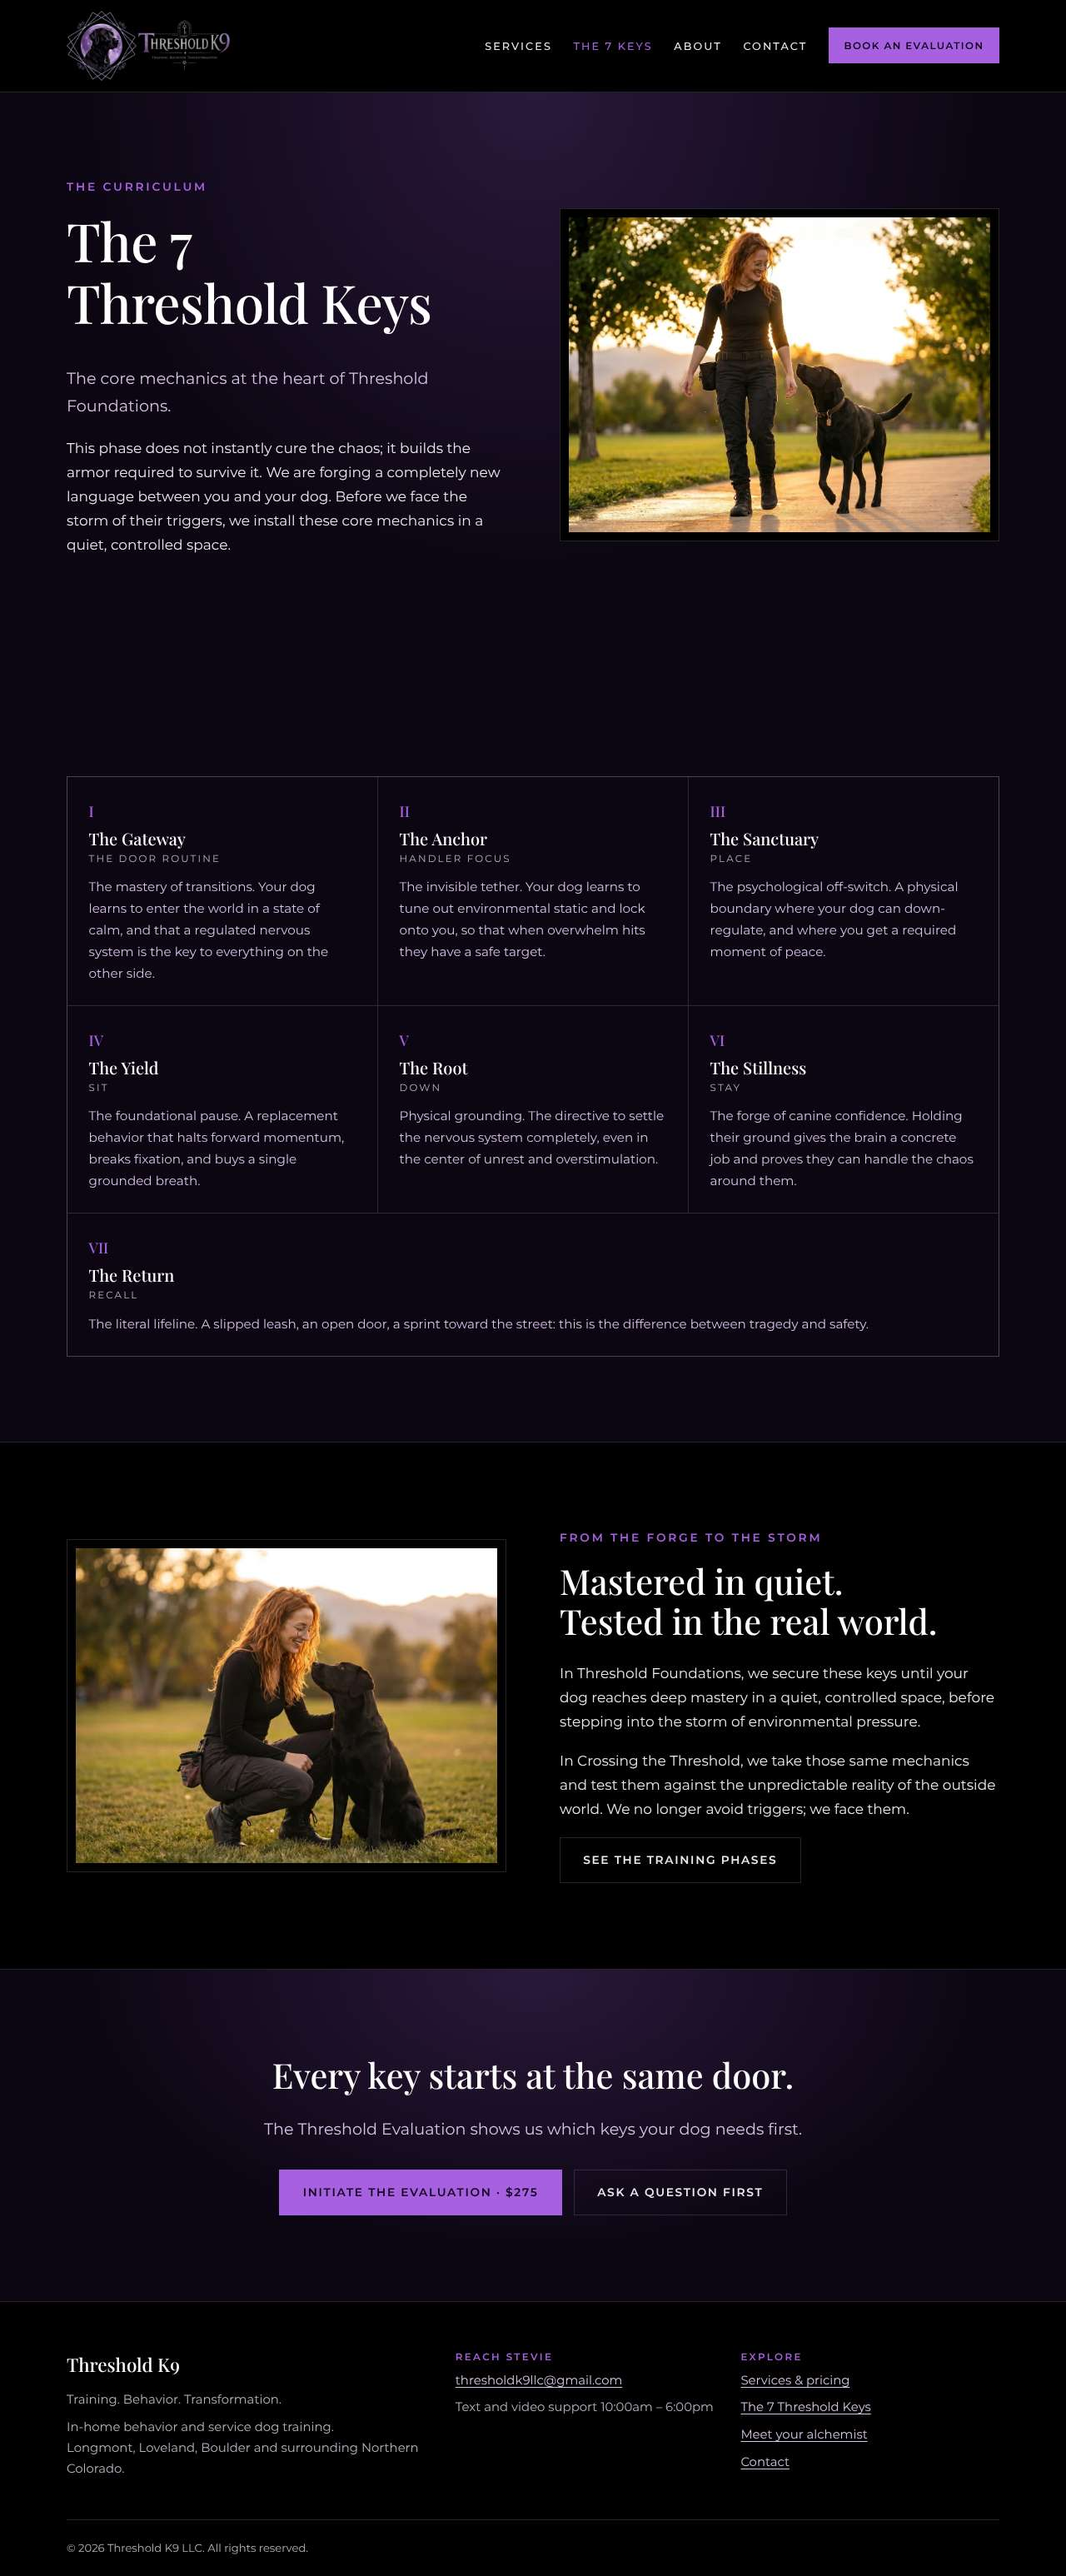
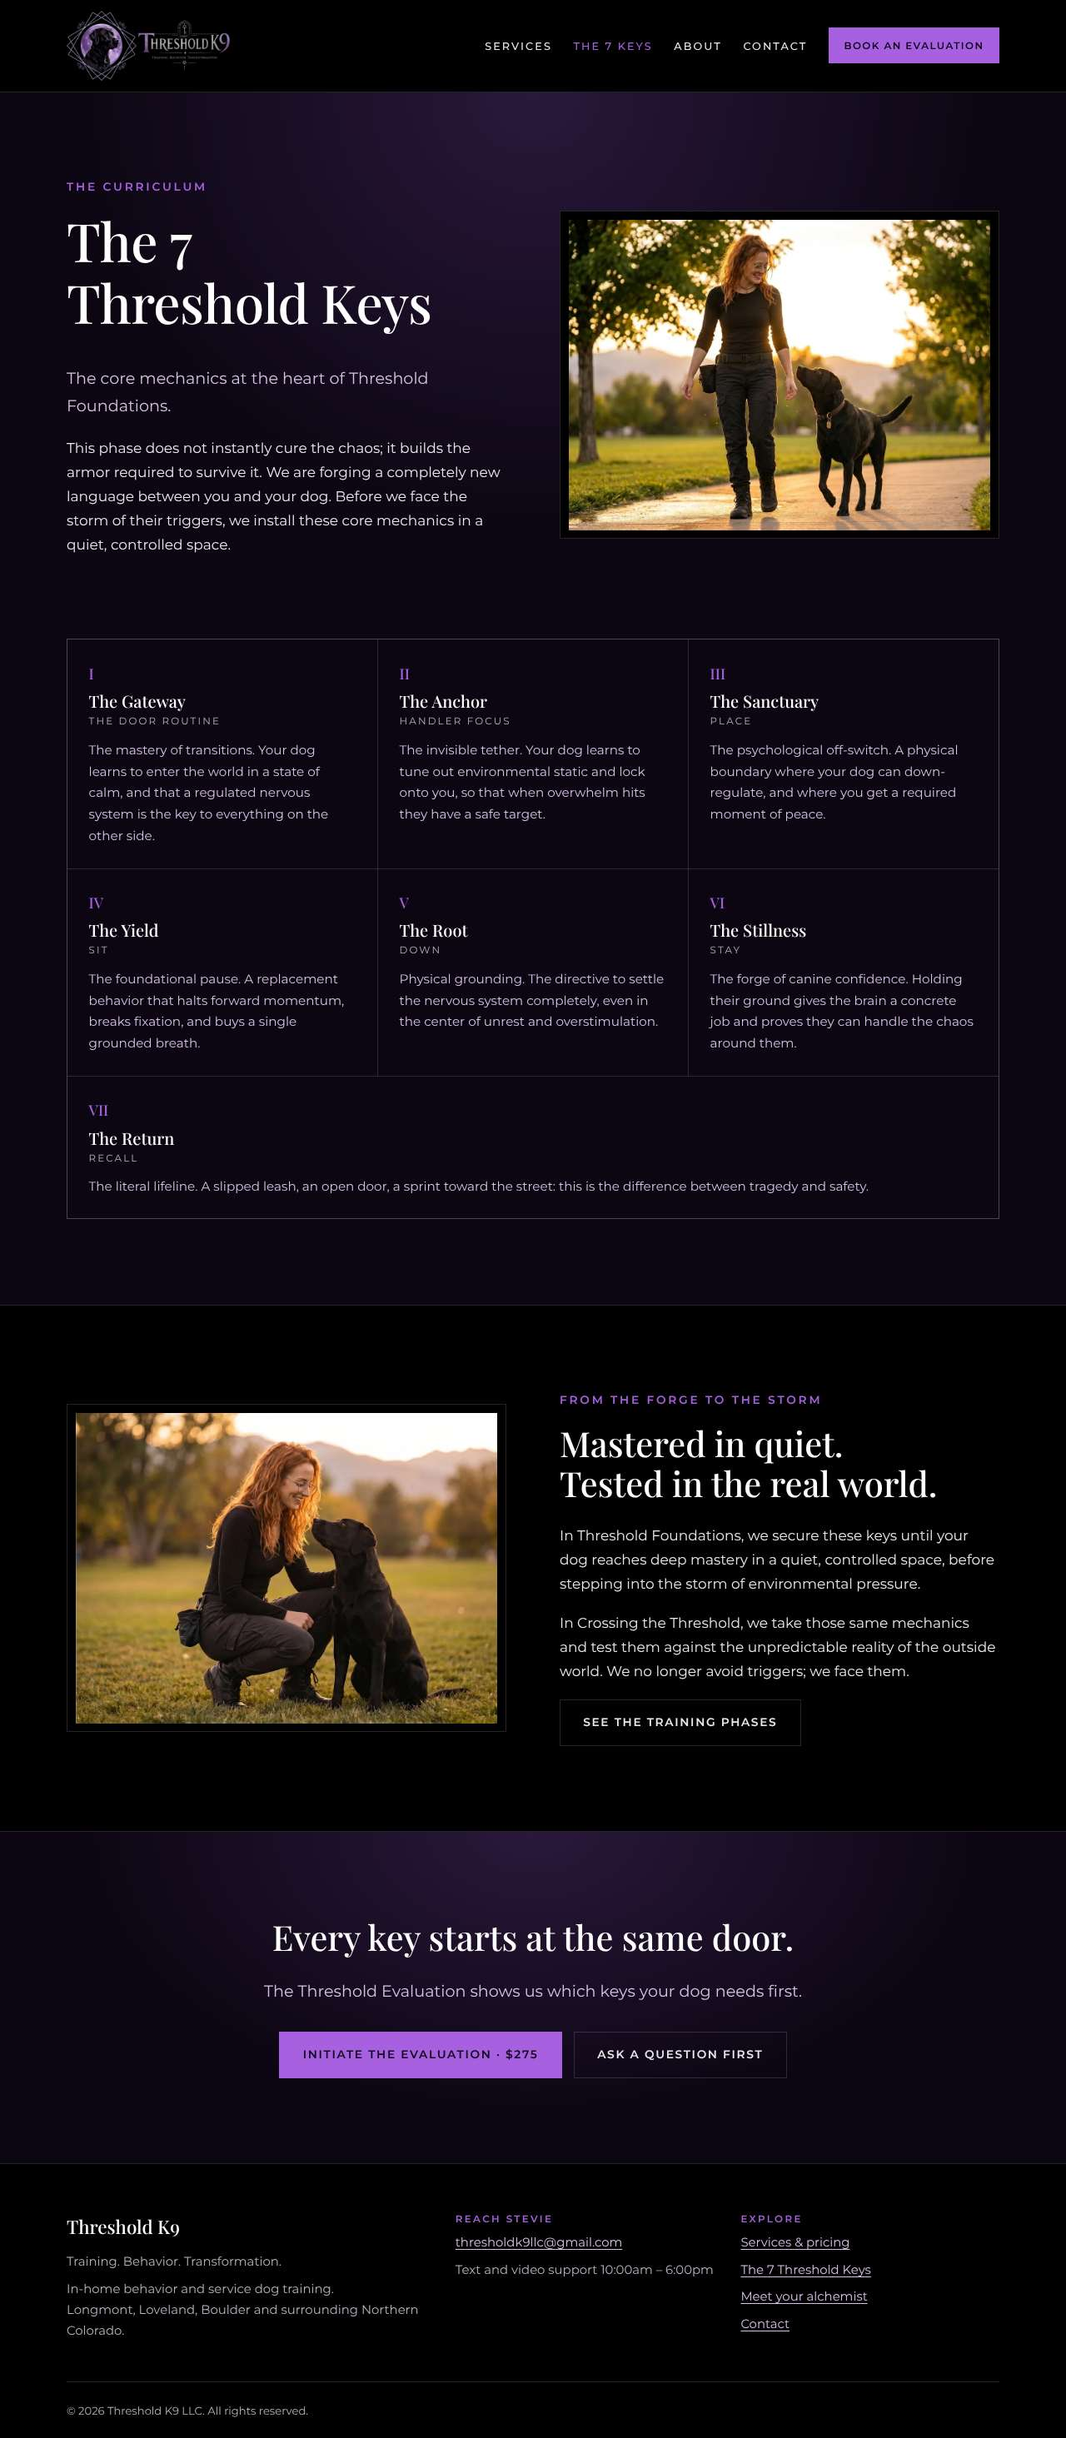
About: add three new photos; 7 Keys: full-size photos, tighter top gap
Claude-Session: https://claude.ai/code/session_01FX71VwxAMGQj4Z4z8A3LuL

diff --git a/src/pages/about.html b/src/pages/about.html
@@ -1,5 +1,5 @@
 <!-- {"path":"/about/","title":"Meet Stevie Rossi | Threshold K9","description":"Stevie Rossi is a trainer and behavior specialist in Longmont, Colorado, working with reactive and bite-history dogs and developing owner-trained service dogs."} -->
-<section class="glow">
+<section class="glow" style="padding-bottom:2.5rem">
   <div class="wrap split">
     <div>
       <p class="eyebrow">Meet your alchemist</p>
@@ -14,21 +14,23 @@
   </div>
 </section>
 
-<section>
-  <div class="wrap narrow">
+<section style="padding-top:1.5rem">
+  <div class="wrap split top">
+    <div class="frame">
+      <img src="/assets/img/about-moon-trail.webp" alt="Stevie sitting on a forest trail at dusk with her arm around her black Lab, a crescent moon overhead" width="1600" height="891" loading="lazy">
+    </div>
+    <div>
     <h2>A lifetime among dogs</h2>
     <p>My relationship with dogs started early. I grew up in a home where there were rarely fewer than 8 to 12 dogs at a time, with puppies moving through every stage of development. I learned by watching, handling, working, and living alongside dogs long before I ever called it "training."</p>
     <p>As I grew older, that love became a fascination with how dogs think, learn, communicate, and survive stress. I studied training techniques, built my own handling systems, and began working with the dogs most people were afraid to touch: reactive dogs with bite histories, dogs who could not exist calmly around other dogs, and extreme resource guarding cases that needed more than basic obedience.</p>
     <p>When I began working in shelter behavior, that passion exploded.</p>
     <p>I saw the gap clearly: the dogs who need skilled training the most are often the ones denied it because of liability, fear, or lack of experience. Threshold K9 exists to be their lifeline.</p>
+    </div>
   </div>
 </section>
 
 <section class="band">
   <div class="wrap split">
-    <div class="frame">
-      <img src="/assets/img/sunset.webp" alt="Stevie standing with Nyx in her service harness at sunset" width="1200" height="900" loading="lazy">
-    </div>
     <div>
       <p class="eyebrow">Why service dogs</p>
       <h2>A bridge back into the world</h2>
@@ -36,16 +38,24 @@
       <p>When I began training my first service dog, everything in my life changed. I understood, in my body, what it means for a dog to become more than a companion. A service dog can mean independence. Safety. Grounding. Access.</p>
       <p>That is why I created the Ascension Track: to help shape carefully selected dogs into stable, skilled, task-trained partners who can support their handlers with clarity, confidence, and real-world reliability.</p>
     </div>
+    <div class="frame">
+      <img src="/assets/img/about-service-kneel.webp" alt="Stevie crouching in a park at sunset, smiling beside Nyx in her service harness and In Training vest" width="1400" height="1030" loading="lazy">
+    </div>
   </div>
 </section>
 
 <section>
   <div class="wrap">
-    <div class="narrow">
-      <p class="eyebrow">The approach</p>
-      <h2>Regulation first</h2>
-      <p>My work is rooted in hard behavioral science and forged in the real-world trenches of reactivity, aggression, bite histories, impulse control, resource guarding, service dog foundations, public access skills, and nervous system overload.</p>
-      <p>Before we ask a dog to "behave," we teach them how to feel safe, think clearly, and move through the world with confidence.</p>
+    <div class="split">
+      <div class="frame">
+        <img src="/assets/img/about-service-stand.webp" alt="Stevie standing in a sunny park beside Nyx in her service harness and In Training vest" width="1400" height="1030" loading="lazy">
+      </div>
+      <div>
+        <p class="eyebrow">The approach</p>
+        <h2>Regulation first</h2>
+        <p>My work is rooted in hard behavioral science and forged in the real-world trenches of reactivity, aggression, bite histories, impulse control, resource guarding, service dog foundations, public access skills, and nervous system overload.</p>
+        <p>Before we ask a dog to "behave," we teach them how to feel safe, think clearly, and move through the world with confidence.</p>
+      </div>
     </div>
     <div class="pillars" style="grid-template-columns: repeat(auto-fit, minmax(260px, 1fr))">
       <div class="pillar"><div class="pillar-body">

diff --git a/src/pages/seven-keys.html b/src/pages/seven-keys.html
@@ -1,5 +1,5 @@
 <!-- {"path":"/the-7-keys/","title":"The 7 Threshold Keys | Threshold K9","description":"The seven core mechanics at the heart of Threshold Foundations: the Gateway, the Anchor, the Sanctuary, the Yield, the Root, the Stillness and the Return."} -->
-<section class="glow">
+<section class="glow" style="padding-bottom:2.5rem">
   <div class="wrap split">
     <div>
       <p class="eyebrow">The curriculum</p>
@@ -8,12 +8,12 @@
       <p>This phase does not instantly cure the chaos; it builds the armor required to survive it. We are forging a completely new language between you and your dog. Before we face the storm of their triggers, we install these core mechanics in a quiet, controlled space.</p>
     </div>
     <div class="frame">
-      <img src="/assets/img/keys-walk.webp" alt="Stevie walking a park path at sunset while her black Lab looks up at her" width="1400" height="1045">
+      <img src="/assets/img/keys-walk.webp" alt="Stevie walking a park path at sunset while her black Lab looks up at her" width="1400" height="1030">
     </div>
   </div>
 </section>
 
-<section>
+<section style="padding-top:0">
   <div class="wrap">
     <ol class="keys">
       <li>
@@ -58,7 +58,7 @@
 <section class="band">
   <div class="wrap split">
     <div class="frame">
-      <img src="/assets/img/keys-connection.webp" alt="Stevie crouching in a park at golden hour, smiling as her black Lab leans in toward her face" width="1400" height="1045" loading="lazy">
+      <img src="/assets/img/keys-connection.webp" alt="Stevie crouching in a park at golden hour, smiling as her black Lab leans in toward her face" width="1400" height="1030" loading="lazy">
     </div>
     <div>
       <p class="eyebrow">From the forge to the storm</p>
